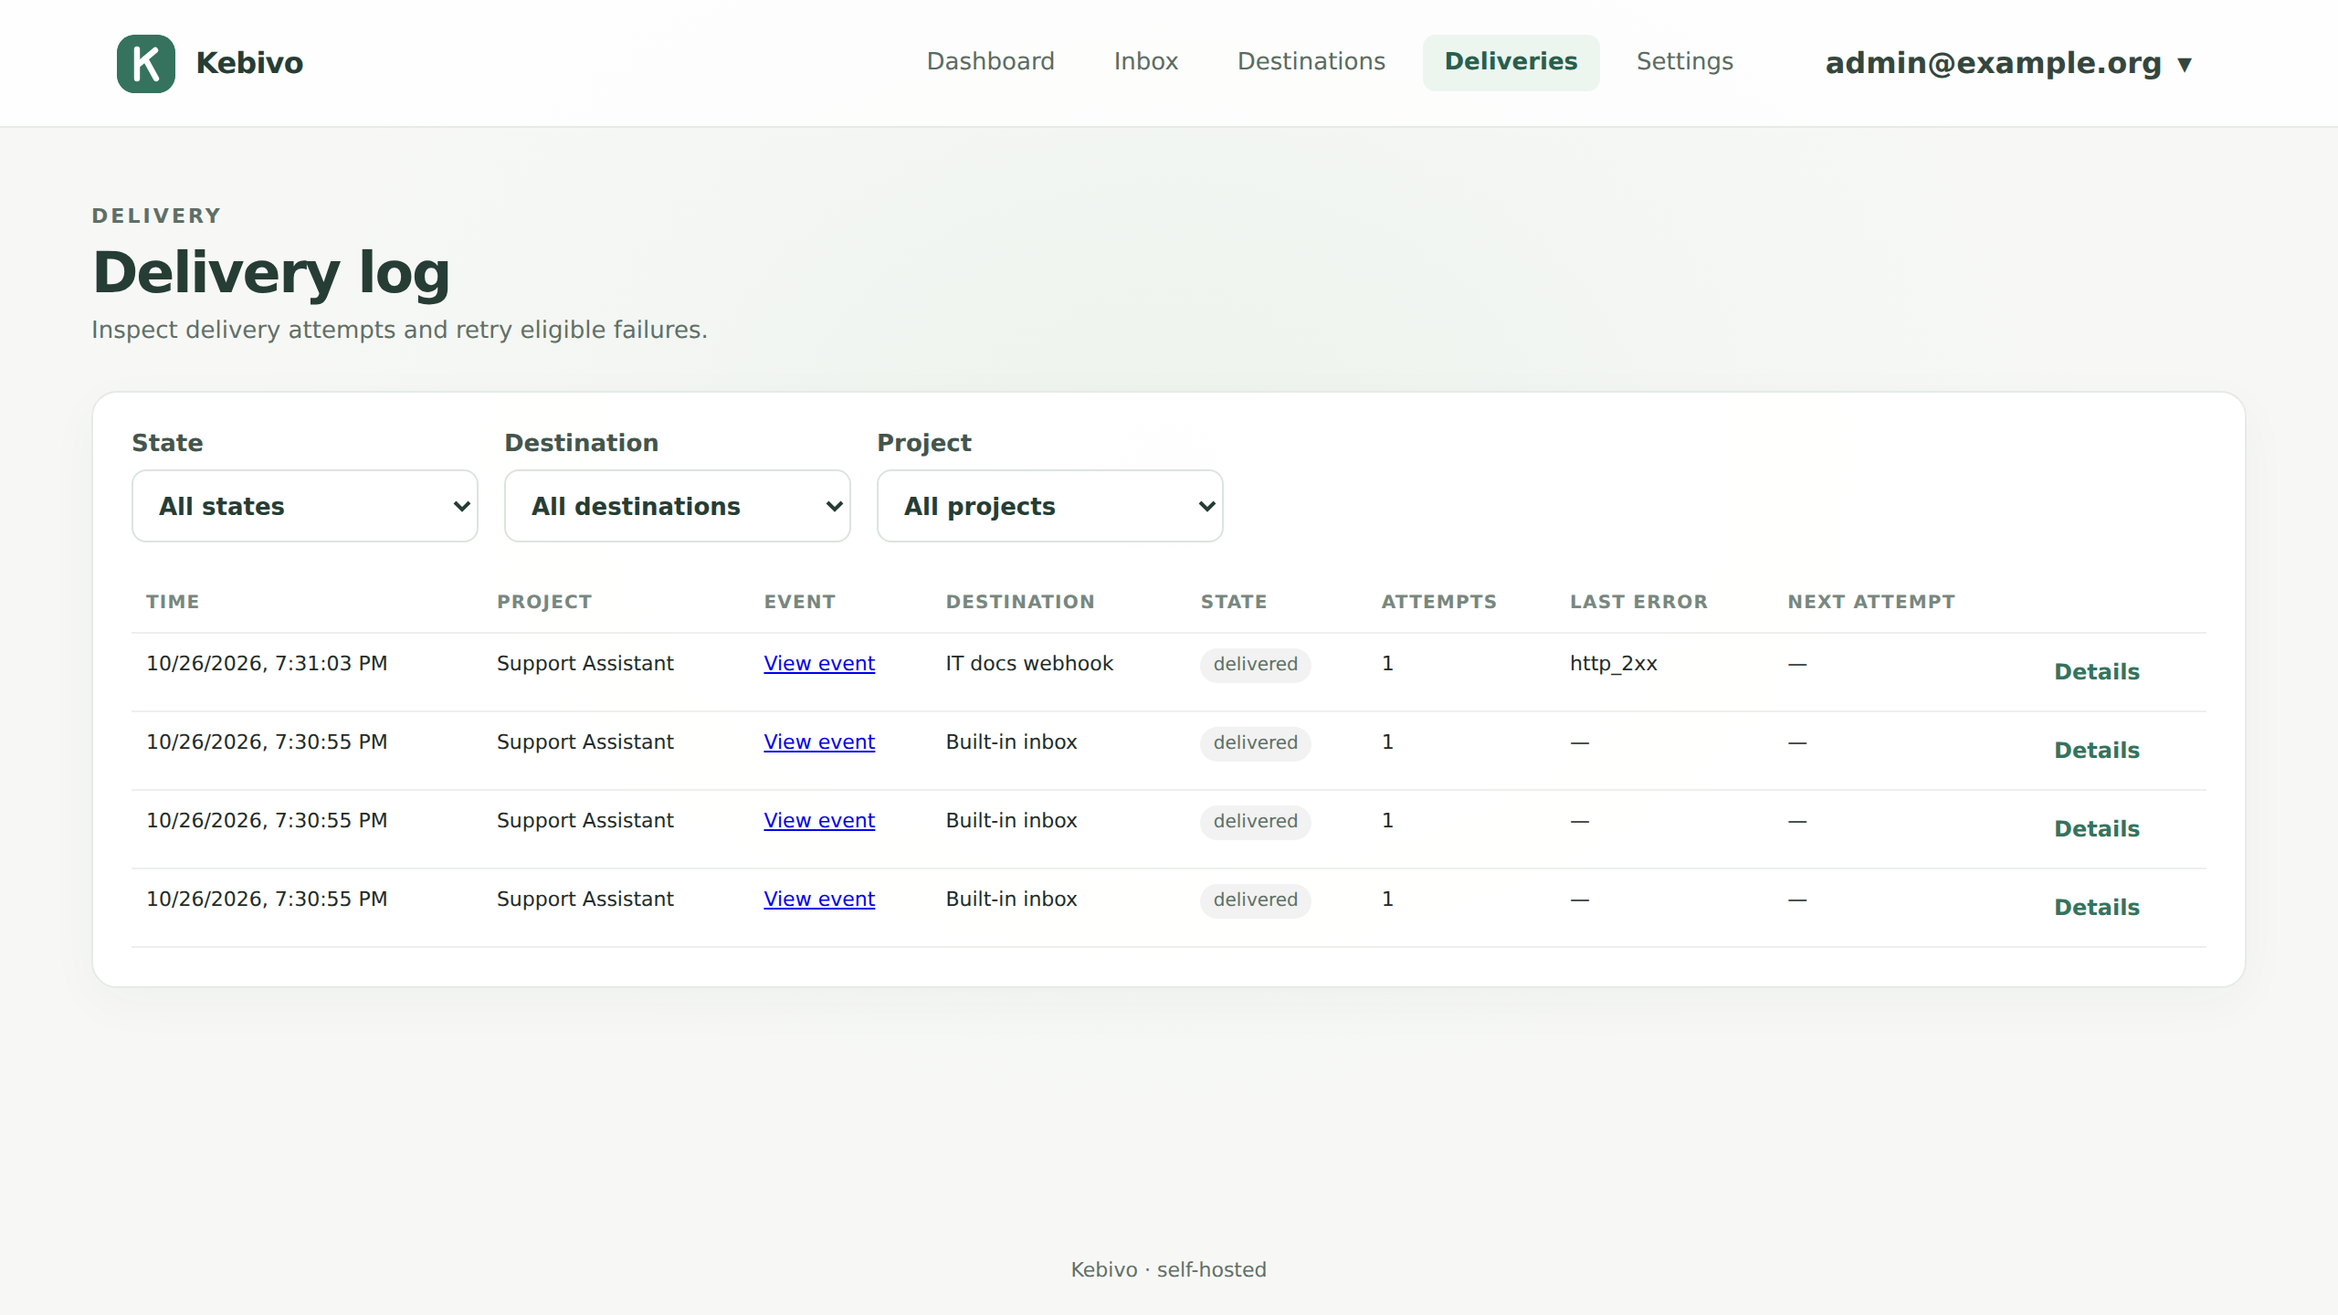
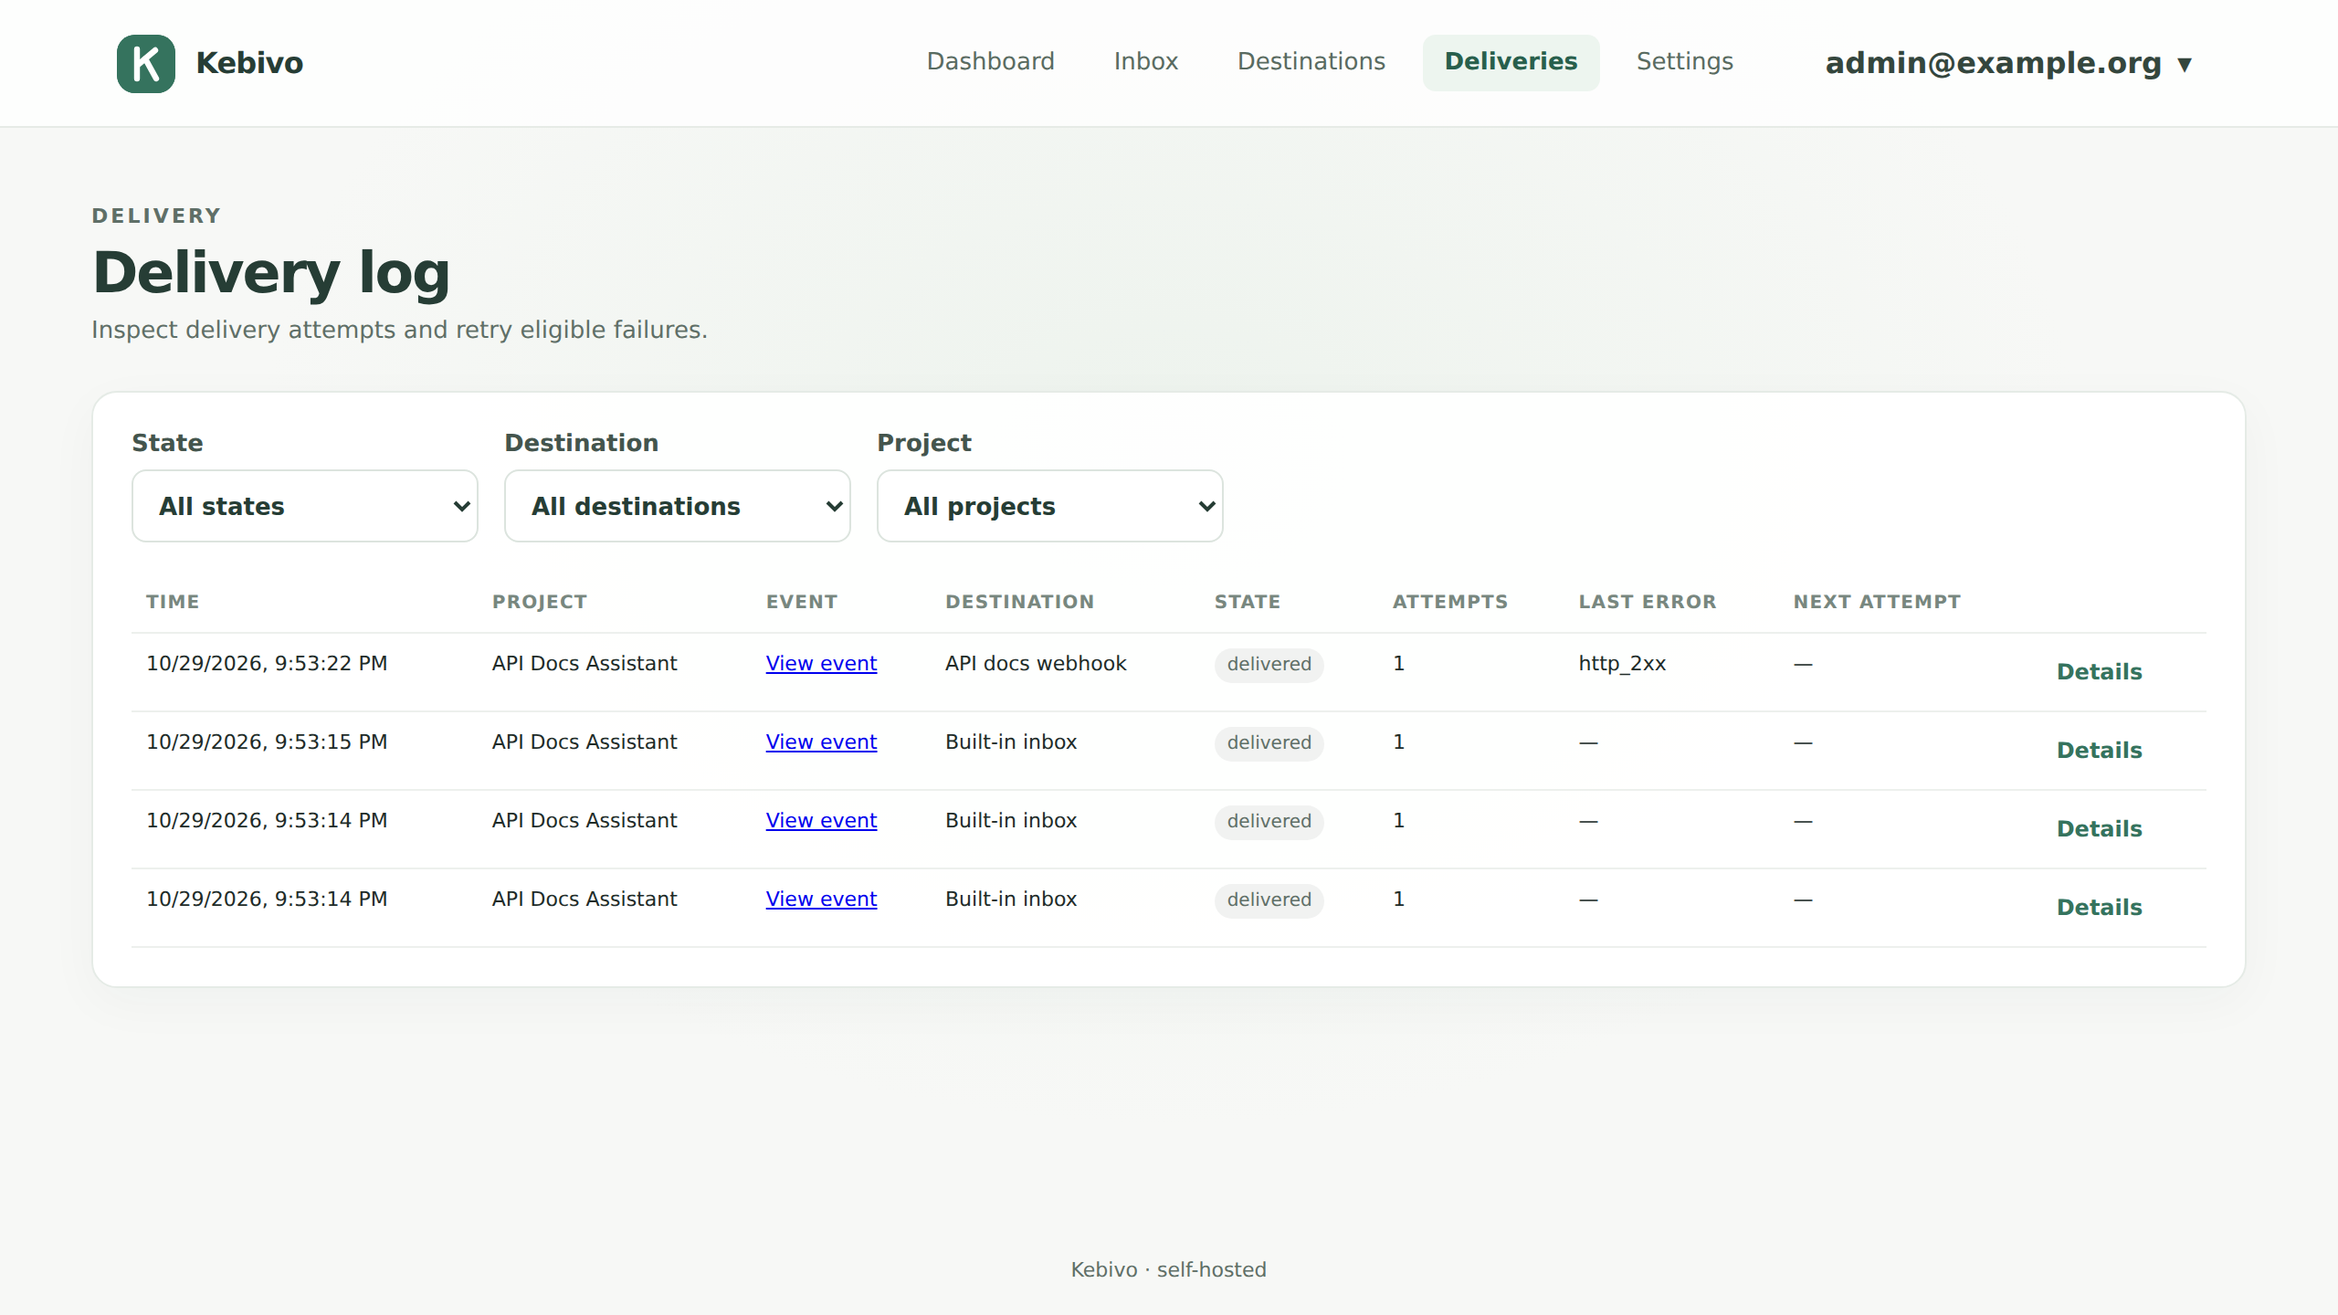
Refresh README demo with the developer repeat story

diff --git a/docs/assets/demo-src/src/scenes/5-fixed.tsx b/docs/assets/demo-src/src/scenes/5-fixed.tsx
@@ -1,63 +1,27 @@
 import {Layout, Rect, Txt, makeScene2D} from '@motion-canvas/2d';
-import {all, createRef, easeOutCubic, fadeTransition, waitFor} from '@motion-canvas/core';
-import {C, H, MONO, SANS, W, caption, mark, progress, shotCard} from '../lib';
-import resolved from '../../shots/group-resolved.png';
-import triage from '../../shots/triage-resolved.png';
+import {all, createRef, fadeTransition, waitFor} from '@motion-canvas/core';
+import {C, H, MONO, SANS, W, mark} from '../lib';
 
-// Scene 5: the doc is fixed and the group is resolved, then the end card.
-const titleCrop = {x: 100, y: 200, w: 1400, h: 340};
-const noteCrop = {x: 40, y: 1212, w: 800, h: 98};
-const statusCrop = {x: 40, y: 616, w: 360, h: 90};
-
+// End card: the documented outcome, without implying a documentation fix happened automatically.
 export default makeScene2D(function* (view) {
   view.fill(C.paper);
   yield* fadeTransition(0.45);
-  const cap = createRef<Txt>();
-  const title = createRef<Rect>();
-  const note = createRef<Rect>();
-  const status = createRef<Rect>();
-  const body = createRef<Layout>();
   const end = createRef<Layout>();
-  const endBg = createRef<Rect>();
   const fade = createRef<Rect>();
-
-  view.add(
-    <>
-      {caption(cap, 'The owner adds the guide and marks it resolved.', C.dark)}
-      <Layout ref={body}>
-        {shotCard(title, resolved, 2560, 1440, titleCrop, 1000)}
-        {shotCard(note, triage, 874, 1934, noteCrop, 700)}
-        {shotCard(status, triage, 874, 1934, statusCrop, 380)}
-      </Layout>
-      {progress(5, false)}
-      <Rect ref={endBg} width={W} height={H} fill={C.paper} opacity={0} />
-      <Layout ref={end} layout direction="column" alignItems="center" gap={34} opacity={0}>
-        <Layout layout gap={26} alignItems="center">
-          {mark(110)}
-          <Txt text="Kebivo" fontFamily={SANS} fontWeight={800} fontSize={104} letterSpacing={-4} fill={C.dark} />
-        </Layout>
-        <Txt text="When your AI doesn’t know, Kebivo tells the people who can fix it." fontFamily={SANS} fontWeight={700} fontSize={40} lineHeight={48} letterSpacing={-1} fill={C.muted} textAlign="center" width={900} textWrap />
-        <Rect layout fill={C.ink} radius={12} padding={[16, 30]}>
-          <Txt text="kebivo.com" fontFamily={MONO} fontWeight={700} fontSize={36} fill={C.mint} />
-        </Rect>
-        <Txt text="Open source · Self-hosted · One container" fontFamily={SANS} fontWeight={700} fontSize={22} fill={C.muted} />
-      </Layout>
-      <Rect ref={fade} width={W} height={H} fill={C.ink} opacity={0} />
-    </>,
-  );
-  title().position([0, 70]).opacity(0);
-  note().position([-230, 280]).opacity(0);
-  status().position([380, 280]).opacity(0);
-  title().y(60);
-
-  yield* all(title().opacity(1, 0.4), title().y(40, 0.6, easeOutCubic));
-  yield* waitFor(1.0);
-  yield* all(note().opacity(1, 0.4), note().y(250, 0.5, easeOutCubic));
-  yield* waitFor(0.5);
-  yield* all(status().opacity(1, 0.4), status().y(250, 0.5, easeOutCubic));
-  yield* waitFor(1.6);
-  yield* all(endBg().opacity(1, 0.4), end().opacity(1, 0.4));
-  yield* waitFor(2.8);
-  // Fade to the dark first frame so the loop restarts cleanly.
+  view.add(<>
+    <Layout ref={end} layout direction="column" alignItems="center" gap={34} opacity={0}>
+      {mark(512)}
+      <Txt text="See unanswered questions. Prioritize the repeats."
+        fontFamily={SANS} fontWeight={700} fontSize={46} lineHeight={54}
+        letterSpacing={-1} fill={C.dark} textAlign="center" width={980} textWrap />
+      <Rect layout fill={C.ink} radius={12} padding={[16, 30]}>
+        <Txt text="kebivo.com" fontFamily={MONO} fontWeight={700} fontSize={36} fill={C.mint} />
+      </Rect>
+      <Txt text="Open source · Self-hosted · One container" fontFamily={SANS} fontWeight={700} fontSize={22} fill={C.muted} />
+    </Layout>
+    <Rect ref={fade} width={W} height={H} fill={C.ink} opacity={0} />
+  </>);
+  yield* end().opacity(1, 0.4);
+  yield* waitFor(2.2);
   yield* fade().opacity(1, 0.5);
 });

diff --git a/docs/assets/demo-src/src/scenes/4-group.tsx b/docs/assets/demo-src/src/scenes/4-group.tsx
@@ -3,10 +3,8 @@ import {all, createRef, easeOutBack, fadeTransition, waitFor} from '@motion-canv
 import {C, H, SANS, W, caption, progress, shotCard} from '../lib';
 import inbox1 from '../../shots/inbox-1.png';
 import inbox2 from '../../shots/inbox-2.png';
-import inbox3 from '../../shots/inbox-3.png';
-import inbox4 from '../../shots/inbox-4.png';
 
-// Scene 3: the same question keeps arriving; the real inbox shows one group whose count climbs 1 to 4.
+// Scene 3: the second report joins the same group in the real inbox.
 const CARD_Y = 140;
 const crop = {x: 140, y: 800, w: 1760, h: 430};
 const CARD_W = 1160;
@@ -17,18 +15,18 @@ export default makeScene2D(function* (view) {
   const card = createRef<Rect>();
   const pill = createRef<Rect>();
   const n = createRef<Txt>();
-  const shots = [inbox2, inbox3, inbox4];
+  const shots = [inbox2];
   const imgs = shots.map(() => createRef<Img>());
   const s = CARD_W / crop.w;
 
   view.add(
     <>
-      {caption(cap, 'Repeats join the same entry. The count goes up, with no second alert.', C.dark)}
+      {caption(cap, 'A repeat question joins the same inbox entry.', C.dark)}
       {shotCard(card, inbox1, 2560, 1440, crop, CARD_W)}
       <Rect layout ref={pill} x={330} y={CARD_Y - 190} fill={C.green} radius={40} padding={[10, 30]} opacity={0} scale={0.6}>
         <Txt ref={n} text="1 occurrence" fontFamily={SANS} fontWeight={800} fontSize={46} letterSpacing={-1} fill="#fff" />
       </Rect>
-      {/* Dim the other groups so the eye stays on the VPN row (first row is 73 to 158 px into the crop). */}
+      {/* Dim the other groups so the eye stays on the /orders row (first row is 73 to 158 px into the crop). */}
       <Rect y={CARD_Y + (crop.h * s) / 2 - (crop.h - 158) * s / 2} width={CARD_W} height={(crop.h - 158) * s} fill="rgba(246,248,246,0.72)" />
       {progress(4, false)}
     </>,
@@ -53,8 +51,9 @@ export default makeScene2D(function* (view) {
   yield* all(pill().opacity(1, 0.3), pill().scale(1, 0.4, easeOutBack));
   yield* waitFor(0.8);
   for (let i = 0; i < shots.length; i++) {
+    yield* imgs[i]().opacity(1, 0.3);
     n().text(`${i + 2} occurrences`);
-    yield* all(imgs[i]().opacity(1, 0.3), pill().scale(1.12, 0.15).back(0.2));
-    yield* waitFor(i === shots.length - 1 ? 1.8 : 0.8);
+    yield* pill().scale(1.12, 0.15).back(0.2);
+    yield* waitFor(2.0);
   }
 });

diff --git a/docs/assets/demo-src/src/scenes/1-problem.tsx b/docs/assets/demo-src/src/scenes/1-problem.tsx
@@ -16,7 +16,7 @@ export default makeScene2D(function* (view) {
       {caption(cap, 'Your AI gets a question your docs don’t cover.', '#fff')}
       <Txt
         ref={cap2}
-        text="And the people who write the docs never hear about it."
+        text="The API docs team needs to hear about it."
         x={-W / 2 + 80}
         y={-H / 2 + 70}
         offset={[-1, -1]}
@@ -32,7 +32,7 @@ export default makeScene2D(function* (view) {
       />
       <Txt ref={label} text="YOUR AI ASSISTANT" x={-W / 2 + 80} y={10} offset={[-1, 0]} fontFamily={SANS} fontWeight={700} fontSize={20} letterSpacing={3} fill="#7fa493" />
       <Rect layout ref={user} x={W / 2 - 80} y={90} offset={[1, 0]} padding={[22, 32]} radius={[28, 28, 6, 28]} fill="#2f4a3f">
-        <Txt text="Where is the VPN setup guide?" fontFamily={SANS} fontWeight={700} fontSize={34} fill="#fff" />
+        <Txt text="How do I paginate the /orders endpoint?" fontFamily={SANS} fontWeight={700} fontSize={34} fill="#fff" width={660} textWrap />
       </Rect>
       <Rect layout ref={agent} x={-W / 2 + 80} y={210} offset={[-1, 0]} padding={[22, 32]} radius={[28, 28, 28, 6]} fill="#fff" opacity={0} scale={0.9} stroke={C.amber} lineWidth={0}>
         <Txt text="I don’t know. I couldn’t find that in my sources." fontFamily={SANS} fontWeight={700} fontSize={34} fill={C.ink} textWrap width={640} />

diff --git a/docs/assets/demo-src/src/scenes/3-route.tsx b/docs/assets/demo-src/src/scenes/3-route.tsx
@@ -4,10 +4,10 @@ import {C, H, SANS, W, caption, progress, shotCard} from '../lib';
 import routing from '../../shots/routing.png';
 import deliveries from '../../shots/deliveries.png';
 
-// Scene 4: a routing rule sends the group to the docs owner; the delivery log shows it delivered.
+// Scene 3: a routing rule sends the group to the docs owner; the delivery log shows it delivered.
 const RULE_Y = 85;
 const LOG_Y = 245;
-const ruleCrop = {x: 44, y: 160, w: 1330, h: 165};
+const ruleCrop = {x: 40, y: 160, w: 1470, h: 165};
 const logCrop = {x: 140, y: 636, w: 1330, h: 160};
 const logScale = 1120 / logCrop.w;
 
@@ -21,7 +21,7 @@ export default makeScene2D(function* (view) {
   
   view.add(
     <>
-      {caption(cap, 'A routing rule sends it to the docs owner, by webhook or email.', C.dark)}
+      {caption(cap, 'A configured rule routes the report to the API docs webhook.', C.dark)}
       {shotCard(rule, routing, 1556, 982, ruleCrop, 1120)}
       {shotCard(log, deliveries, 2560, 1440, logCrop, 1120)}
       {/* First delivery row sits 56 to 144 px into the crop. */}

diff --git a/docs/assets/demo-src/src/scenes/2-report.tsx b/docs/assets/demo-src/src/scenes/2-report.tsx
@@ -21,7 +21,7 @@ export default makeScene2D(function* (view) {
 
   view.add(
     <>
-      {caption(cap, 'Your agent reports the gap to Kebivo over MCP.', C.dark)}
+      {caption(cap, 'Your agent can report the gap over MCP.', C.dark)}
       <Rect
         ref={card}
         y={90}
@@ -55,8 +55,8 @@ export default makeScene2D(function* (view) {
 
   yield* card().opacity(1, 0.3);
   yield* l1().text('tools/call  report_knowledge_gap', 0.9);
-  yield* l2().text('question: "Where is the VPN setup guide?"', 1.0);
-  yield* l3().text('tags:     it, vpn', 0.5);
+  yield* l2().text('question: "How do I paginate the /orders endpoint?"', 1.0);
+  yield* l3().text('tags:     api, pagination', 0.5);
   yield* waitFor(0.4);
   yield* all(ok().opacity(1, 0.25), l4().text(`event_id ${result.event_id.slice(0, 8)}…`, 0.5));
   yield* waitFor(1.6);

diff --git a/docs/assets/demo-src/src/lib.tsx b/docs/assets/demo-src/src/lib.tsx
@@ -1,5 +1,5 @@
 import {Img, Layout, Rect, Txt} from '@motion-canvas/2d';
-import logo from './logo.svg';
+import logo from '../../logo/lockup.svg';
 import {Reference, createRef} from '@motion-canvas/core';
 
 export const C = {
@@ -85,7 +85,7 @@ export function shotCard(ref: Reference<Rect>, src: string, sw: number, sh: numb
 }
 
 export function mark(size: number) {
-  return <Img src={logo} width={size} height={size} />;
+  return <Img src={logo} width={size} height={size / 4} />;
 }
 
 export {createRef};

diff --git a/docs/assets/demo-src/README.md b/docs/assets/demo-src/README.md
@@ -1,41 +1,41 @@
-# Kebivo demo source
+# Kebivo README demo source
 
-Motion Canvas project behind `../demo.gif`, the website's `demo.mp4` and `demo-poster.png`, and `../social-preview.png` (rendered from `../social-preview.html`).
-Every product frame is a screenshot of a real `ghcr.io/ocnai/kebivo:0.1.1` container filled with synthetic data
-(`example.org`, no real names). Only the chat in scene 1 and the end card are drawn.
+Motion Canvas project behind `../demo.gif`. The story uses the same `/orders` question as the README Quickstart. Product UI frames were captured from a fresh `ghcr.io/ocnai/kebivo:0.2.0` container with synthetic data. The chat and end card are drawn. The end card imports the approved Concept C lockup directly from `../logo/lockup.svg`.
 
 | Scene | What it shows |
 | --- | --- |
-| 1 | A generic chat: the assistant can't find the answer |
-| 2 | The agent's `report_knowledge_gap` call over MCP and the real `status: accepted` response |
-| 3 | The routing rule and the delivery row marked delivered |
-| 4 | Repeats join the same inbox entry; the occurrence count goes 1 to 4 |
-| 5 | The owner's note and the resolved status, then the end card |
+| 1 | A drawn assistant chat cannot answer the `/orders` pagination question |
+| 2 | The app's discretionary MCP `report_knowledge_gap` call returns `status: accepted`; this acknowledges intake, not delivery |
+| 3 | A configured routing rule sends the report to the API docs webhook, with a real delivered row |
+| 4 | A second, deterministic REST submission of the same question joins the existing group, raising its count from 1 to 2 |
+| 5 | End card with the approved lockup and the visible value proposition |
 
 ## Re-render
 
 ```sh
 cd docs/assets/demo-src
-npm install
+npm ci
 npm run serve          # editor at http://localhost:9000
 ```
 
-In the editor, open Video Settings and press Render. It writes PNG frames (1280x720, 30 fps) to `output/project/`
-(ignored by git). Then encode the shipped files:
+In the editor, open Video Settings and press Render. It writes PNG frames (1280x720, 30 fps) to `output/project/` (ignored by git). Then encode the shipped README GIF:
 
 ```sh
-bash scripts/encode.sh   # docs/assets/demo.gif, plus output/demo.mp4 and output/demo-poster.png for the website
+bash scripts/encode.sh
 ```
 
-## Re-capture the screenshots
+The encoder also writes `output/demo.mp4` and `output/demo-poster.png` as local review files. Those files are not published to the website by this change.
+
+## Re-capture the product frames
+
+Use a fresh container and a free port 18321. This script seeds only synthetic `example.org` data and writes the screenshots to `shots/`. It uses Playwright from `frontend/node_modules` and Chromium; set `CHROMIUM=/path` if needed.
 
 ```sh
 docker run -d --name kdemo -p 127.0.0.1:18321:8000 -v kdemo-data:/data \
   -e SECRET_KEY=$(openssl rand -hex 32) -e ENCRYPTION_KEY=$(openssl rand -hex 32) \
-  -e ALLOWED_ORIGINS=http://127.0.0.1:18321 ghcr.io/ocnai/kebivo:0.1.1
+  -e ALLOWED_ORIGINS=http://127.0.0.1:18321 ghcr.io/ocnai/kebivo:0.2.0
 printf 'DemoPassw0rd-2026\nDemoPassw0rd-2026\n' | docker exec -i kdemo python -m kebivo.cli bootstrap --email admin@example.org --password-stdin
-node capture/capture.mjs   # needs Playwright (frontend/node_modules) and a Chromium; set CHROMIUM=/path if needed
+node capture/capture.mjs
 ```
 
-`capture.mjs` seeds one project, a webhook destination and a routing rule, sends the MCP call, and writes `shots/*.png`.
-It starts the receiver in `capture/receiver.py` inside the container, so use a fresh container each time.
+`capture.mjs` creates an API Docs Assistant project, webhook destination and routing rule. Its first report uses MCP; the second uses REST. The crops used in the animation exclude the old header mark in the 0.2.0 container UI. No documentation change or automatic fix is depicted.

diff --git a/README.md b/README.md
@@ -9,7 +9,7 @@
 
 Your AI app reports each question it couldn't answer; Kebivo groups the repeats and routes them to whoever can fix the docs.
 
-![Demo: a question the assistant cannot answer is reported to Kebivo, grouped with repeats, routed to a content owner, and resolved. Product frames come from a real Kebivo container with sample data.](docs/assets/demo.gif)
+![Demo: an assistant cannot answer how to paginate the /orders endpoint. It reports the question to Kebivo over MCP; a configured webhook route delivers it. A second report of the same question joins one inbox group with 2 occurrences. Product frames use sample data from a real Kebivo container.](docs/assets/demo.gif)
 
 [![CI](https://github.com/OCNAI/kebivo/actions/workflows/ci.yml/badge.svg?branch=main)](https://github.com/OCNAI/kebivo/actions/workflows/ci.yml)
 [![License: Apache-2.0](https://img.shields.io/badge/license-Apache--2.0-blue.svg)](LICENSE)
